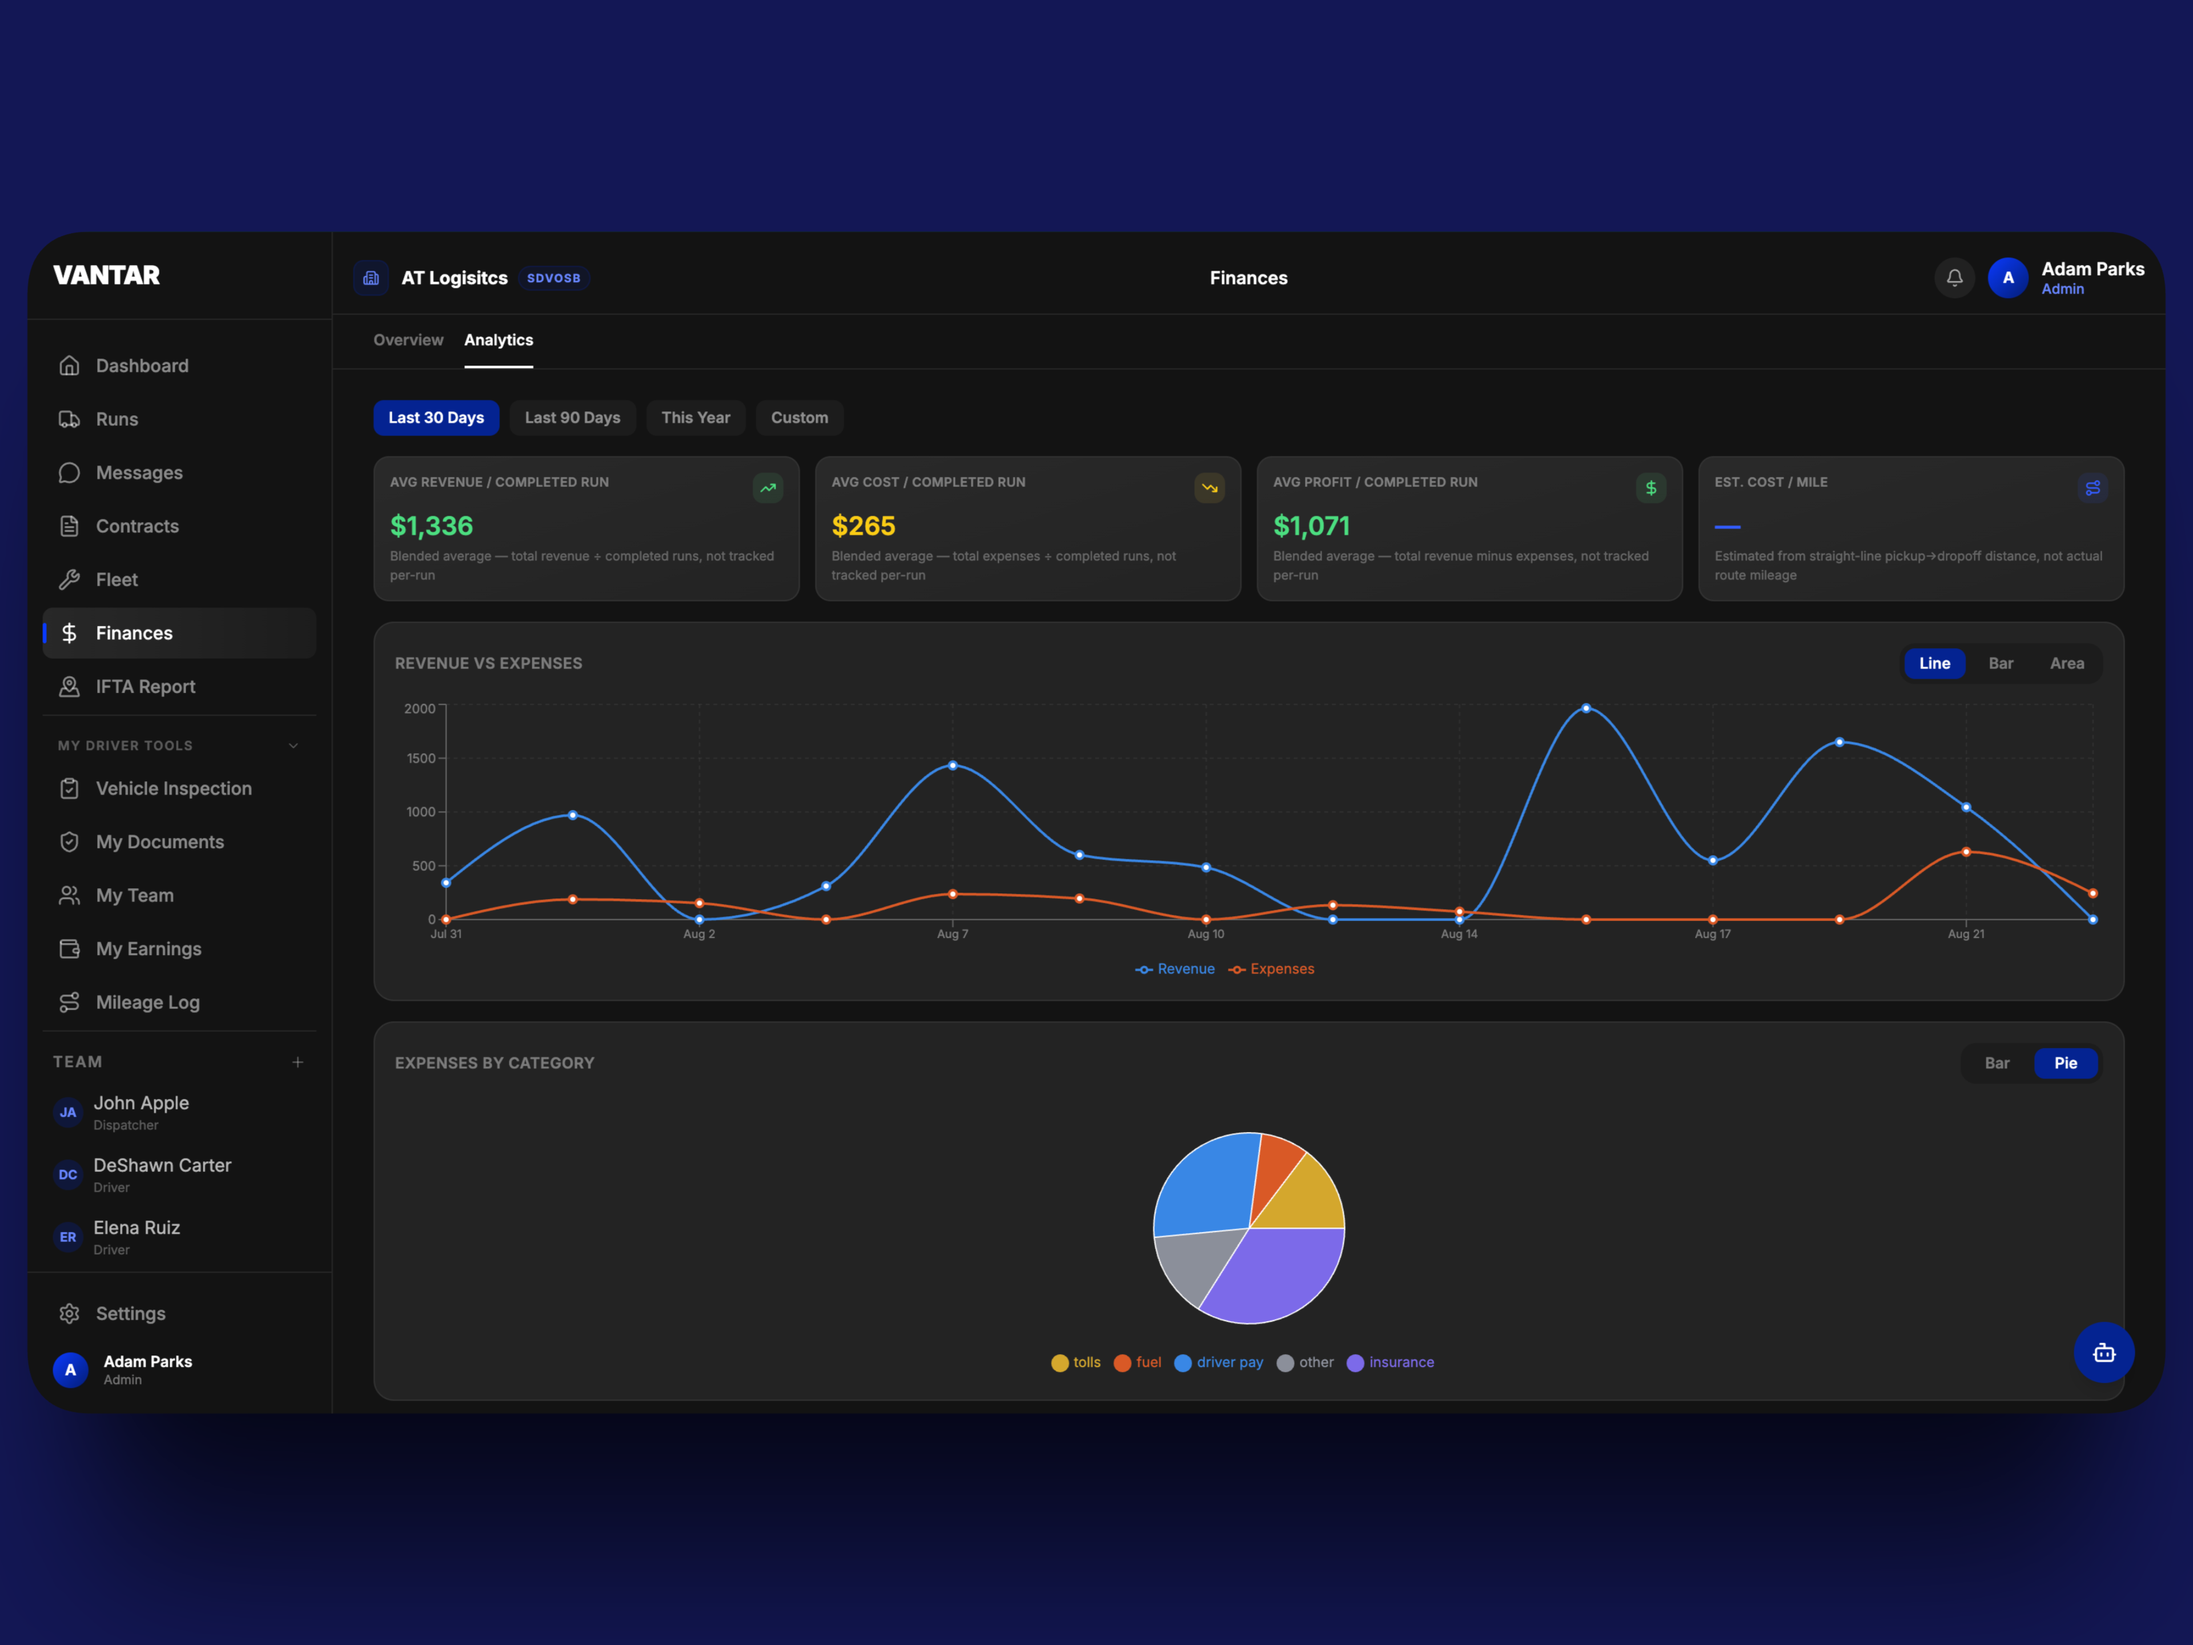
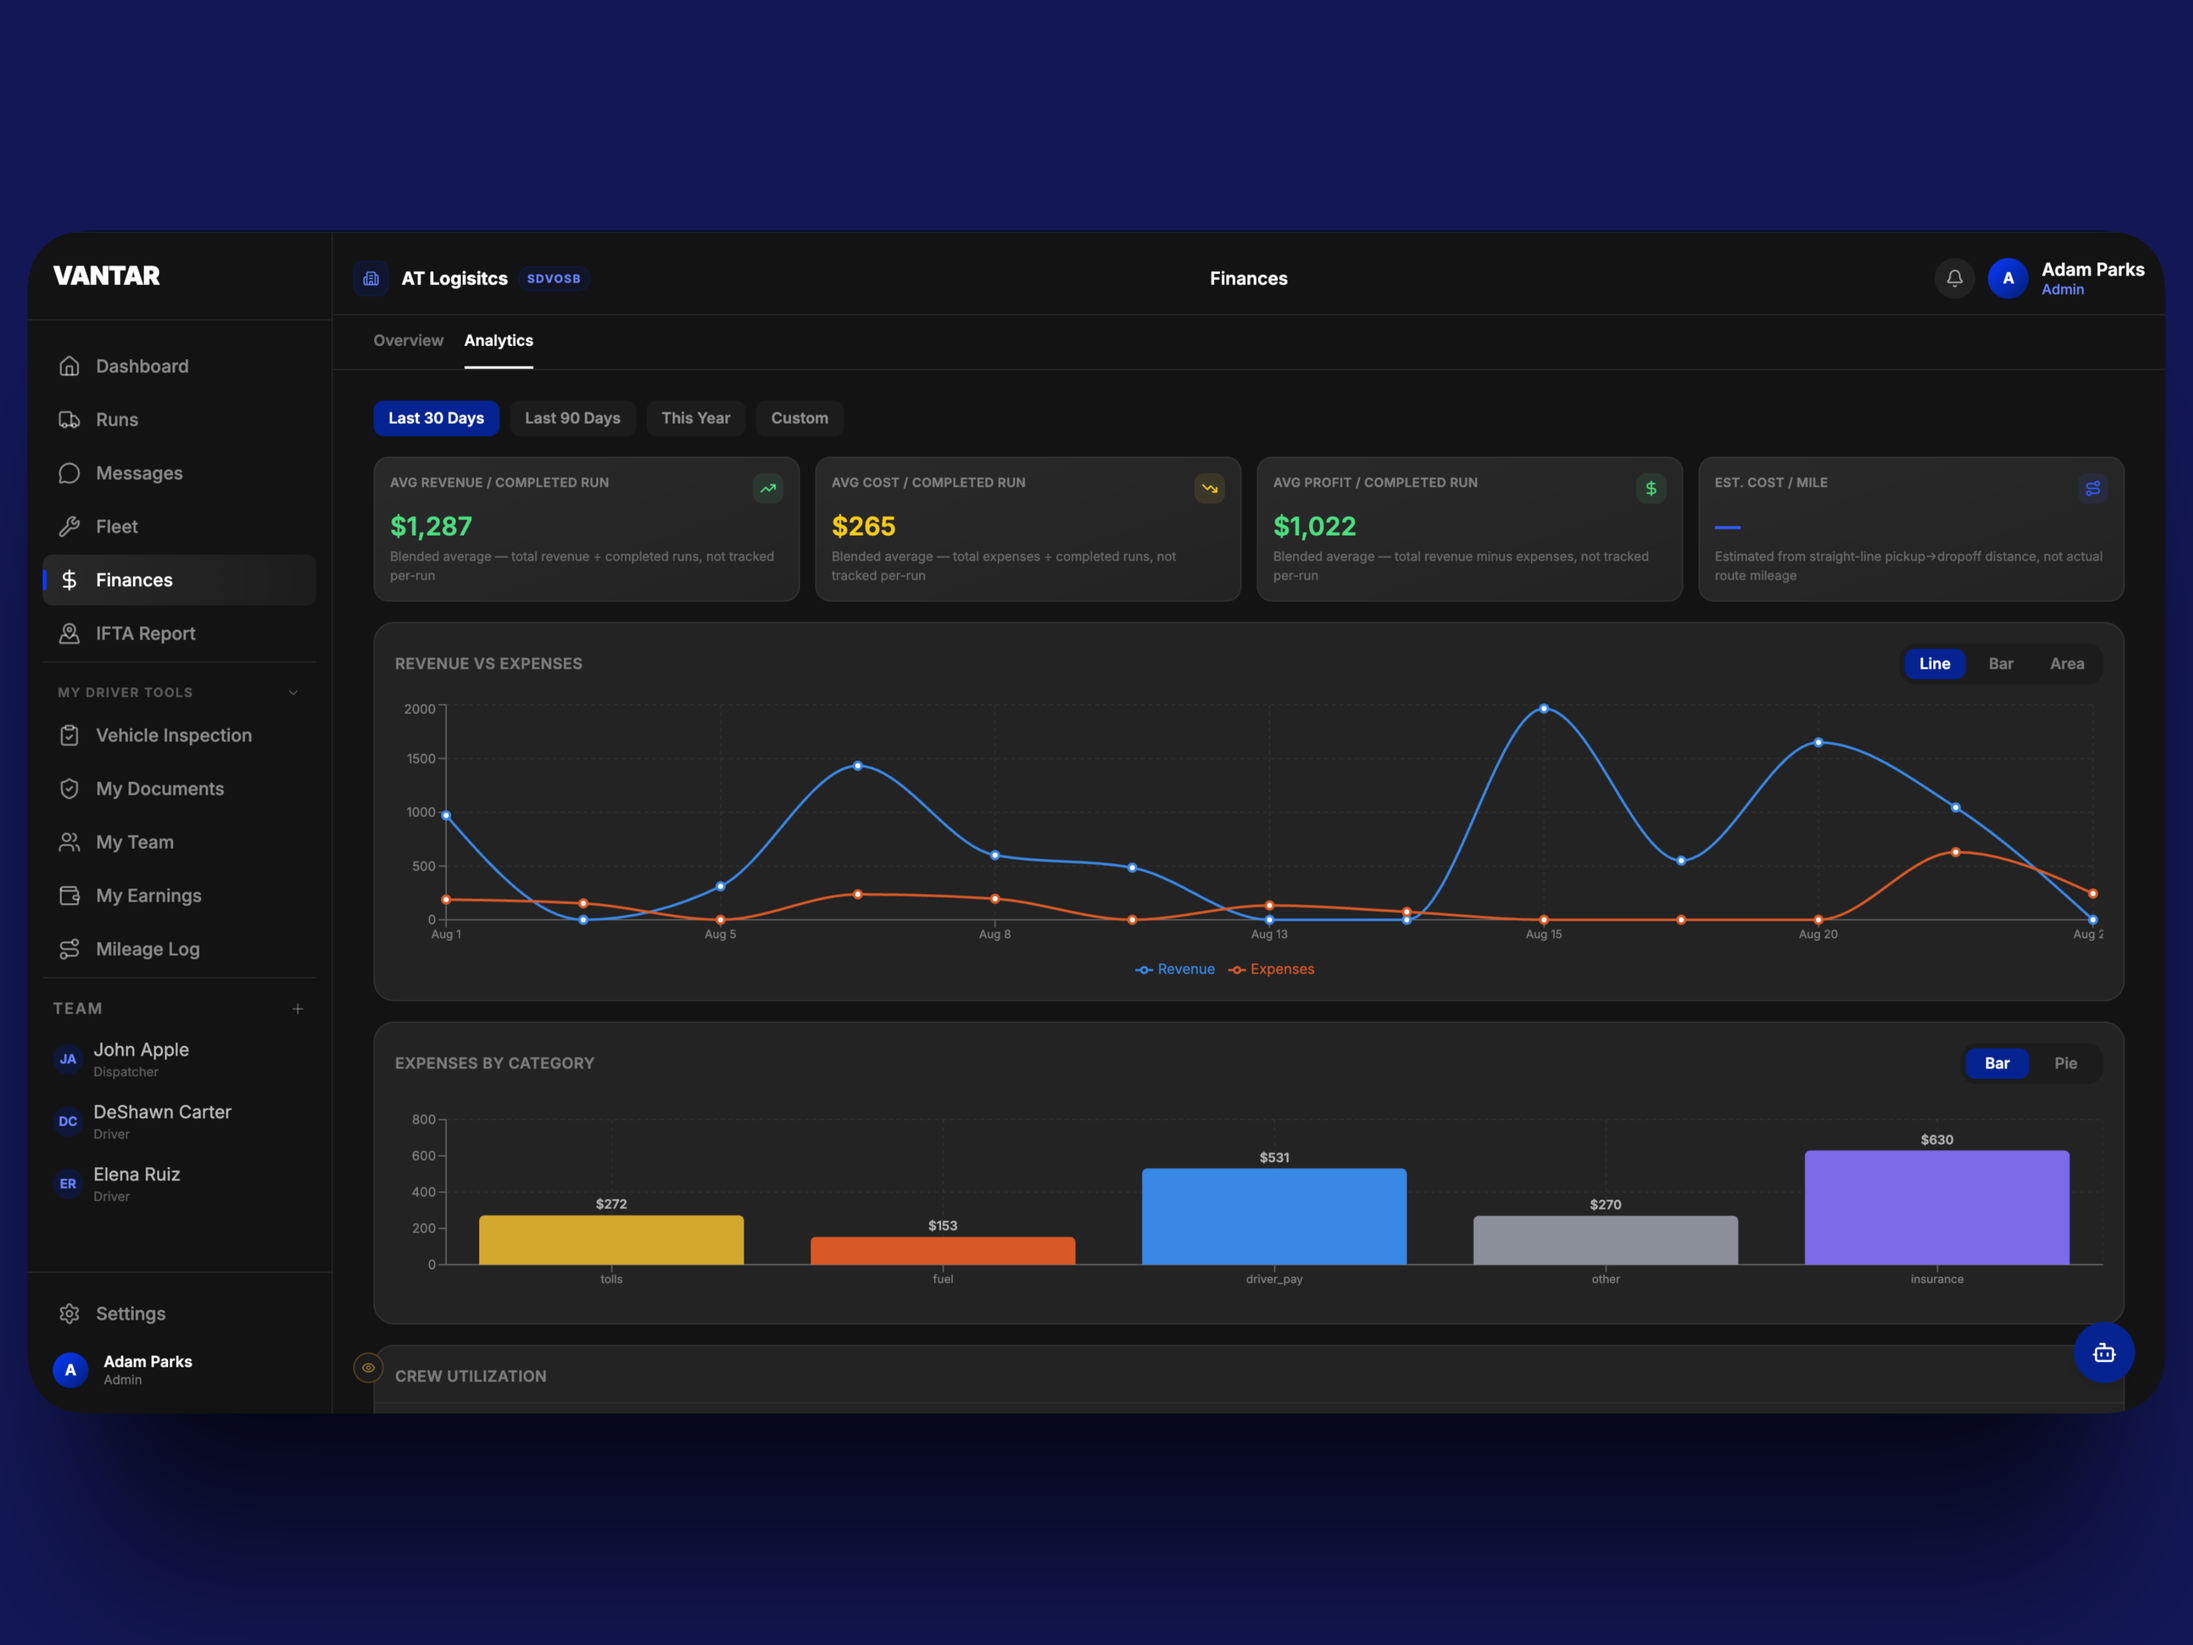
update(vantar): refresh Run Detail and Analytics screenshots to full Vantar rebrand
Chain-of-custody shot was still the old Convoy/Grant Logistics branding;
analytics shot swapped to a fresh line+bar view. Alt text and captions
updated to match what's actually shown.

Claude-Session: https://claude.ai/code/session_01AfTpwKRk9iE79j7Rya5EjF

diff --git a/vantar.html b/vantar.html
@@ -218,13 +218,13 @@
         </div>
         <div>
           <div class="shot-frame">
-            <img src="assets/vantar-analytics.png" alt="Vantar Finances Analytics tab: revenue vs. expense area chart and an expenses-by-category pie chart">
+            <img src="assets/vantar-analytics.png" alt="Vantar Finances Analytics tab: revenue vs. expense line chart and an expenses-by-category bar chart">
           </div>
           <p class="type-caption">Finances → Analytics: revenue/expense trend and cost breakdown, the source for the "Financial analytics" surface above. Seed/demo account, no real financial data shown.</p>
         </div>
         <div>
           <div class="shot-frame">
-            <img src="assets/vantar-chain-of-custody.png" alt="Vantar Run Detail page: pickup, dropoff, and load details, with Mark as Delivered, View/Add Photos, and Download Chain of Custody PDF actions">
+            <img src="assets/vantar-chain-of-custody.png" alt="Vantar Run Detail page: delivered status, pickup, dropoff, and load details, with View/Add Photos and Download Chain of Custody PDF actions">
           </div>
           <p class="type-caption">Run detail: the chain-of-custody flow the product exists to fix, photo capture and a branded PDF, one tap away. Seed/demo account, no real run data shown.</p>
         </div>
